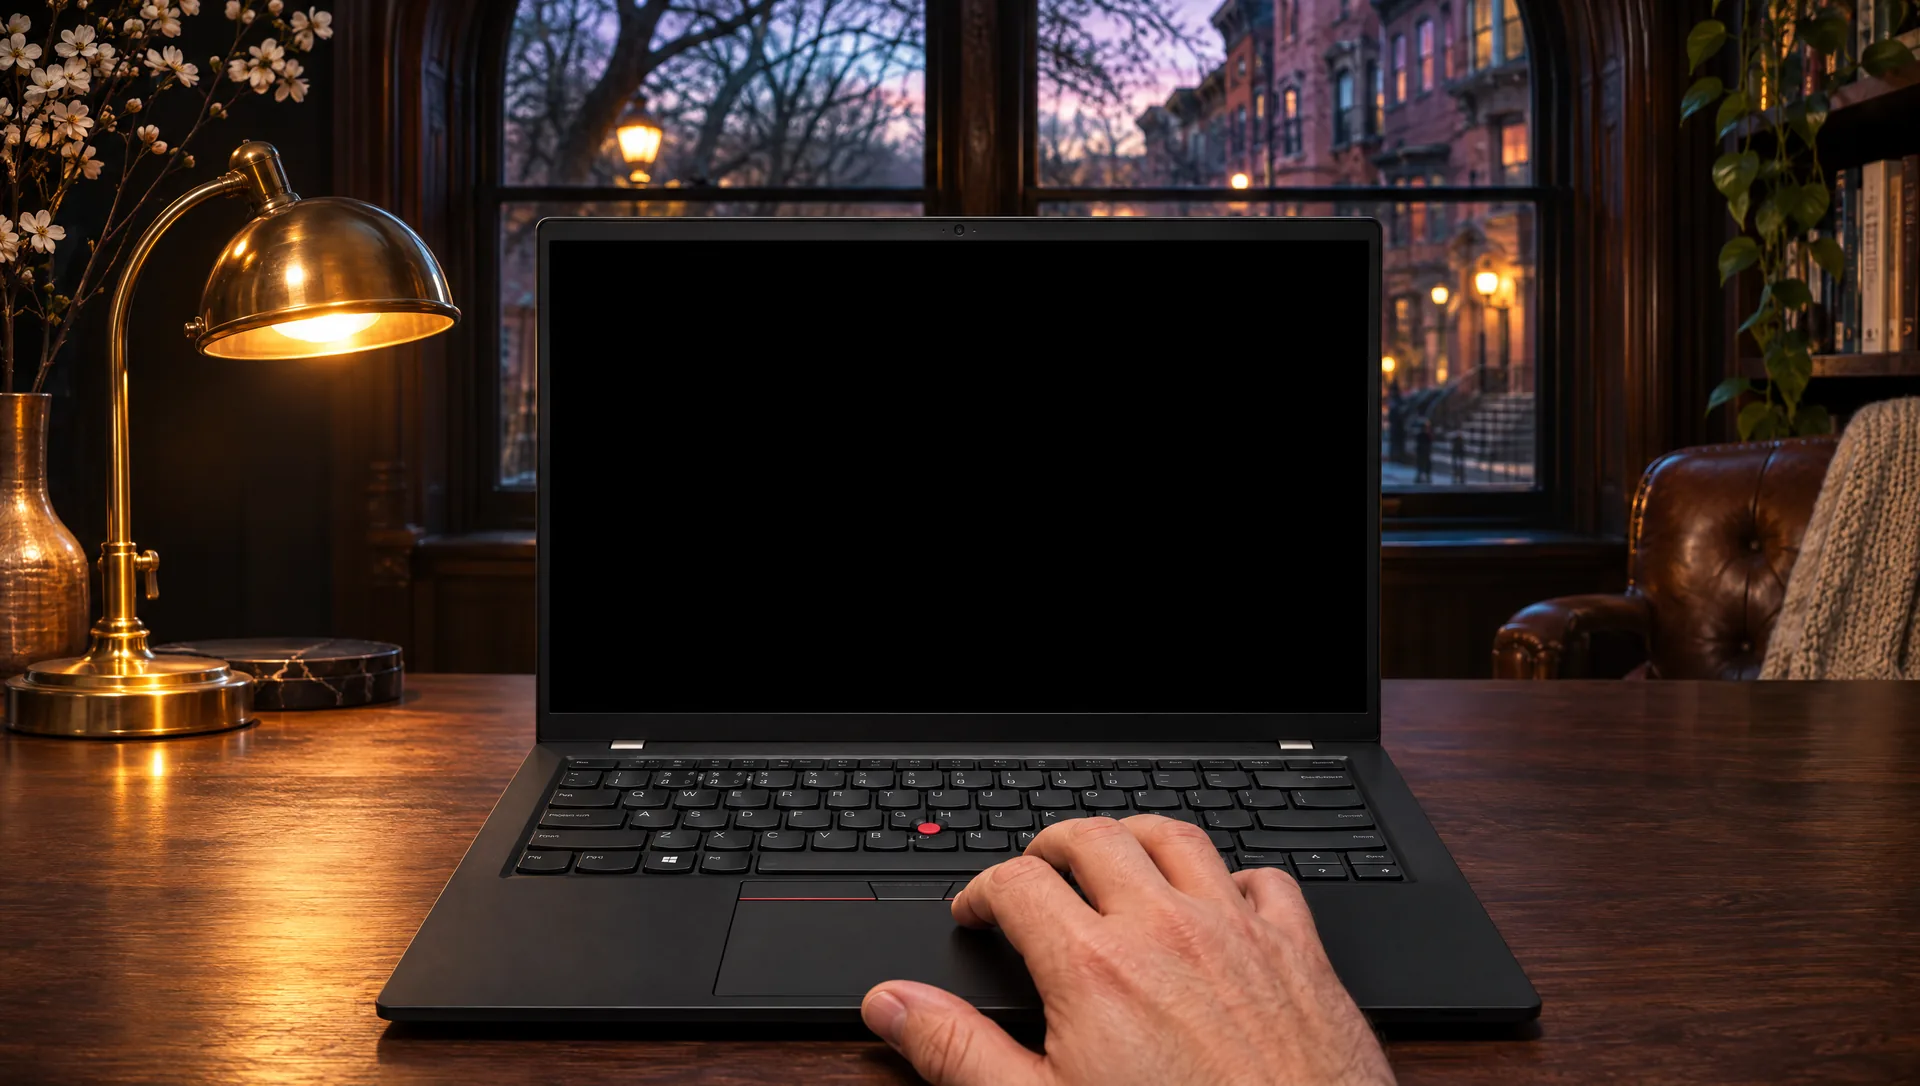
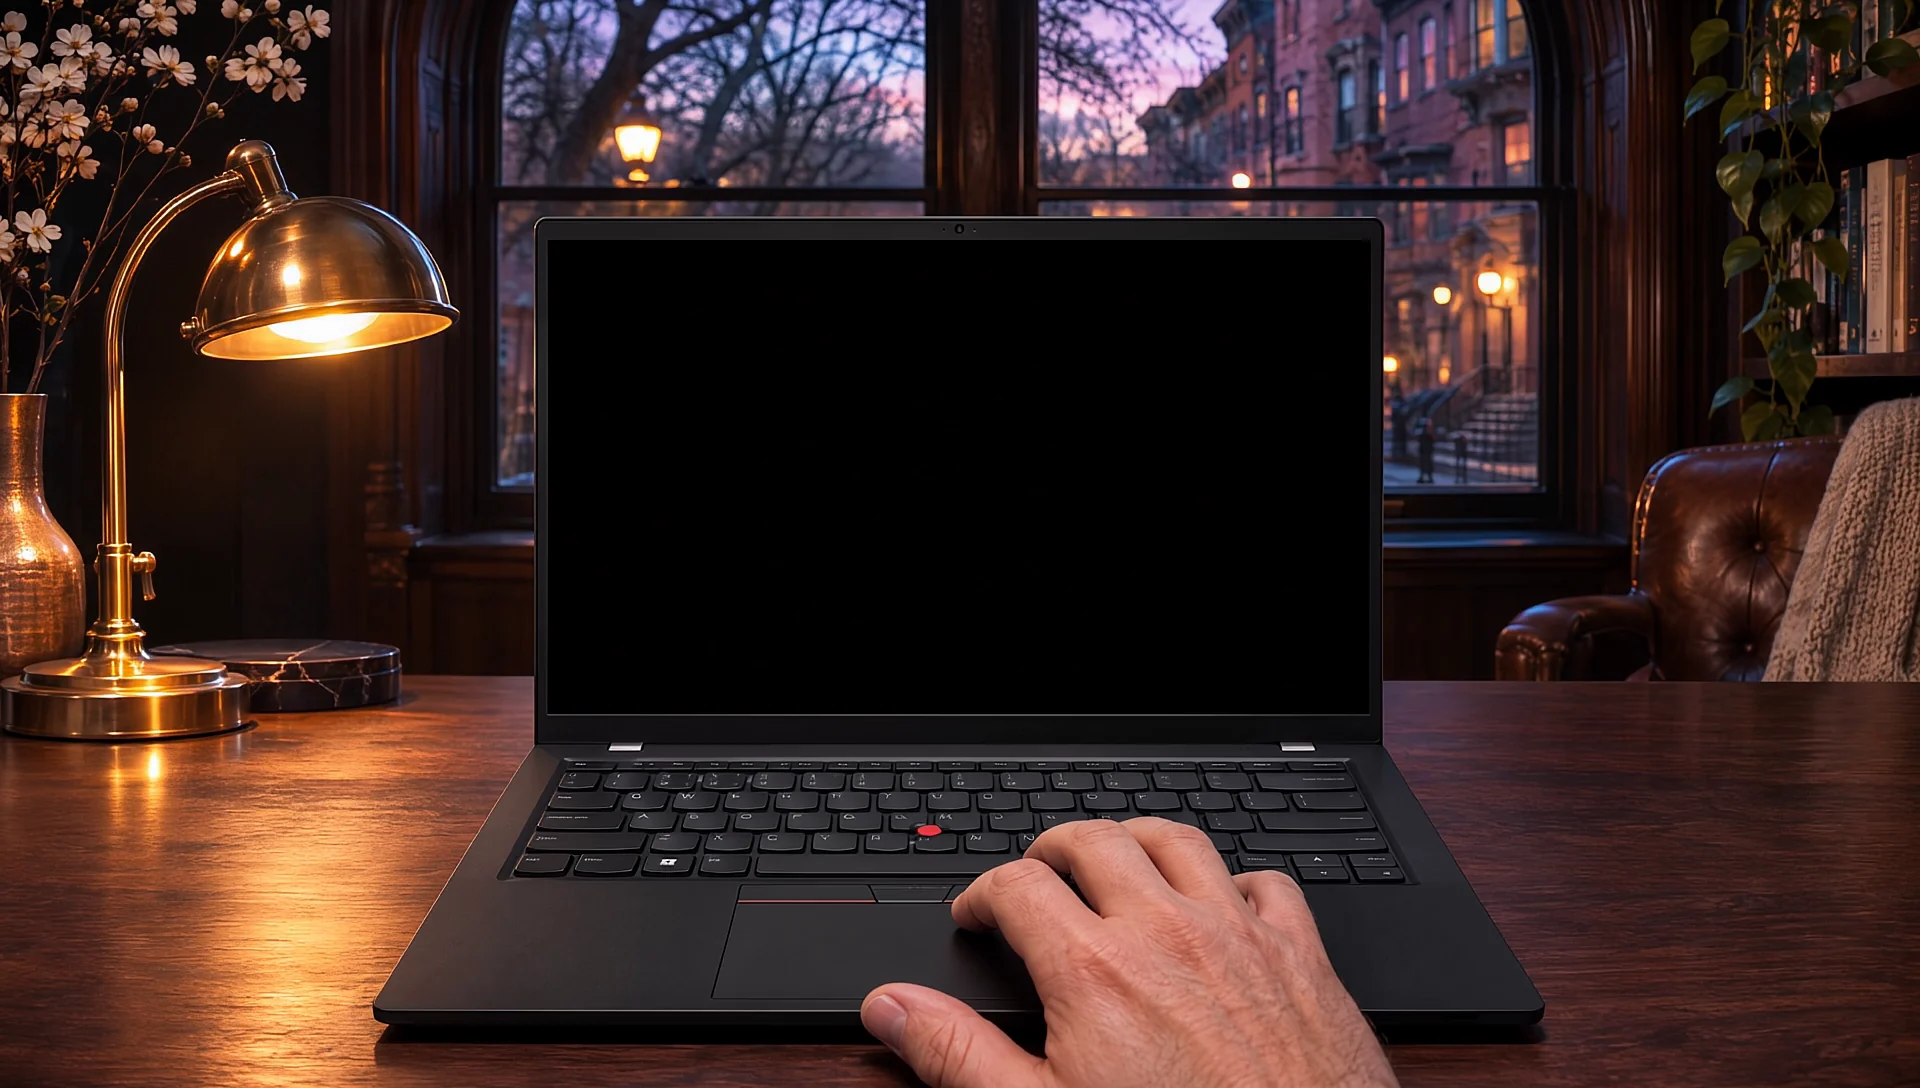
Match hero to the hand clip so the hand blends seamlessly
Claude-Session: https://claude.ai/code/session_017DyAJKNavezrjqra3A8GzZ

diff --git a/index.html b/index.html
@@ -35,13 +35,13 @@ a{color:inherit}
 .box > *{position:absolute}
 #film,#hero{inset:0;width:100%;height:100%;display:block;max-width:none}
 #hero{opacity:0}
-.screen{left:28.68%;top:22.17%;width:42.52%;height:43.36%;overflow:hidden;background:#000;opacity:0}
+.screen{left:28.54%;top:22.06%;width:42.81%;height:43.57%;overflow:hidden;background:#000;opacity:0}
 .screen img{position:absolute;left:0;top:0;width:100%;max-width:none;display:block;will-change:transform;opacity:0}
 .screen::after{content:"";position:absolute;inset:0;pointer-events:none;
   background:linear-gradient(118deg,rgba(255,255,255,.10) 0%,rgba(255,255,255,.03) 28%,transparent 46%),radial-gradient(120% 90% at 50% 120%,rgba(216,168,90,.10),transparent 60%);
   box-shadow:inset 0 0 24px rgba(0,0,0,.55)}
-#hand{left:43.75%;top:64.46%;width:35.42%;height:35.73%;opacity:0;
-  -webkit-mask-image:radial-gradient(70% 75% at 55% 70%,#000 62%,transparent 100%);mask-image:radial-gradient(70% 75% at 55% 70%,#000 62%,transparent 100%)}
+#hand{left:43.75%;top:64.34%;width:35.42%;height:35.66%;opacity:0;
+  -webkit-mask-image:radial-gradient(62% 70% at 52% 72%,#000 40%,transparent 100%);mask-image:radial-gradient(62% 70% at 52% 72%,#000 40%,transparent 100%)}
 .vignette{inset:0;pointer-events:none;background:radial-gradient(120% 90% at 50% 55%,transparent 55%,rgba(0,0,0,.55) 100%)}
 
 .title{position:absolute;inset:0;display:grid;place-items:center;text-align:center;z-index:5;pointer-events:none;padding-left:var(--gutter-l);padding-right:var(--gutter-r)}
@@ -193,7 +193,7 @@ footer{text-align:center;color:var(--dim);font:500 11px/1 var(--mono);letter-spa
 <script>
 (function(){
   const OPENER_N=97, HAND_N=60;          // frame counts in media/opener and media/hand
-  const ASPECT=1920/1086;                          // film aspect
+  const ASPECT=1920/1088;                          // film aspect
   const SITES=['harlem-haberdashery','harlem-chocolate-factory','bakery'];
   const $=id=>document.getElementById(id);
   const phoneMQ=matchMedia('(max-width: 700px)');
